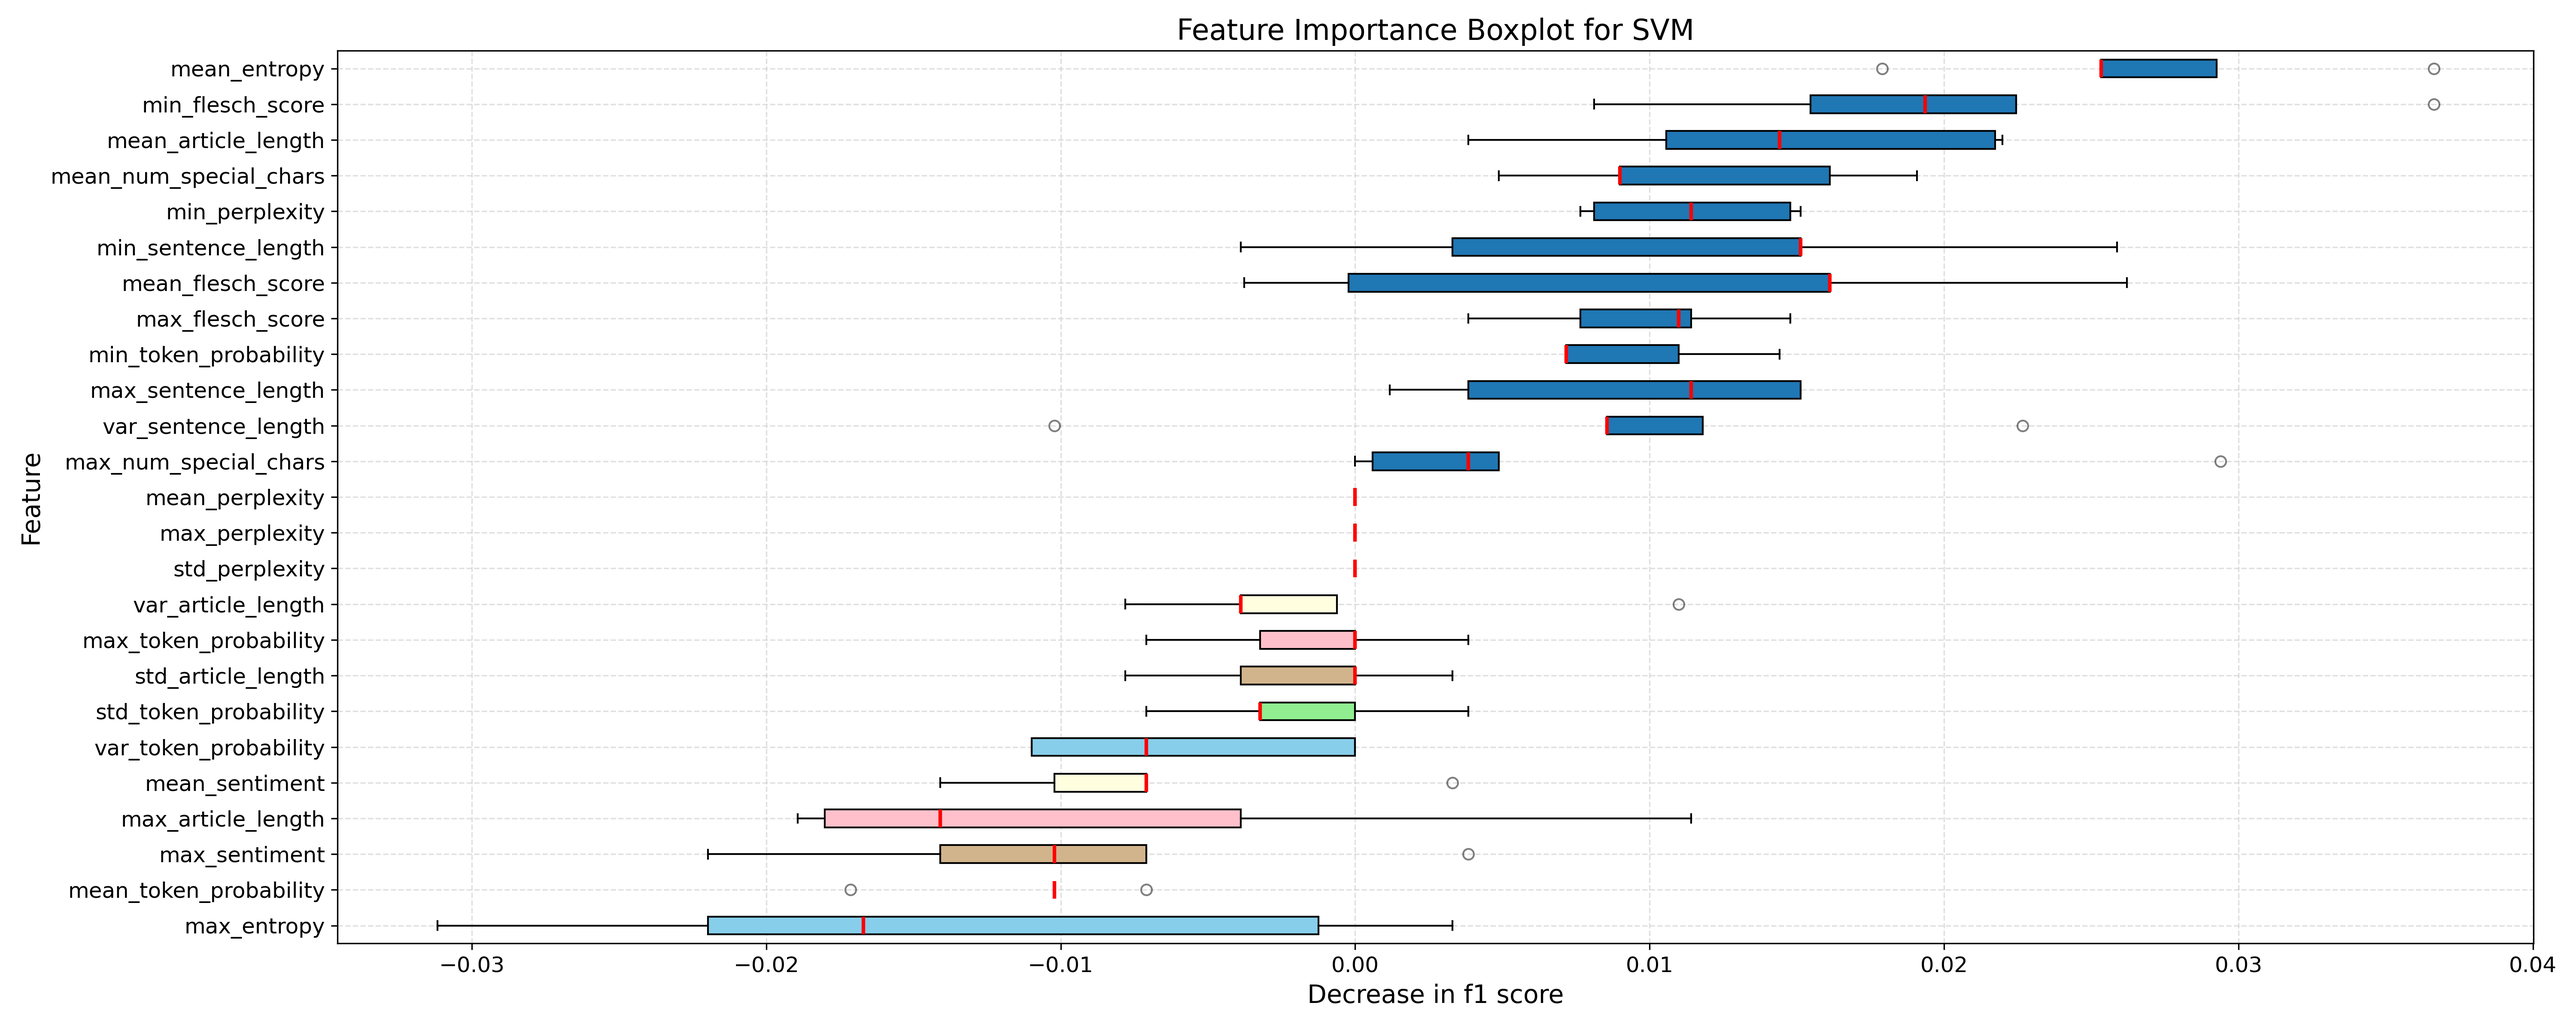
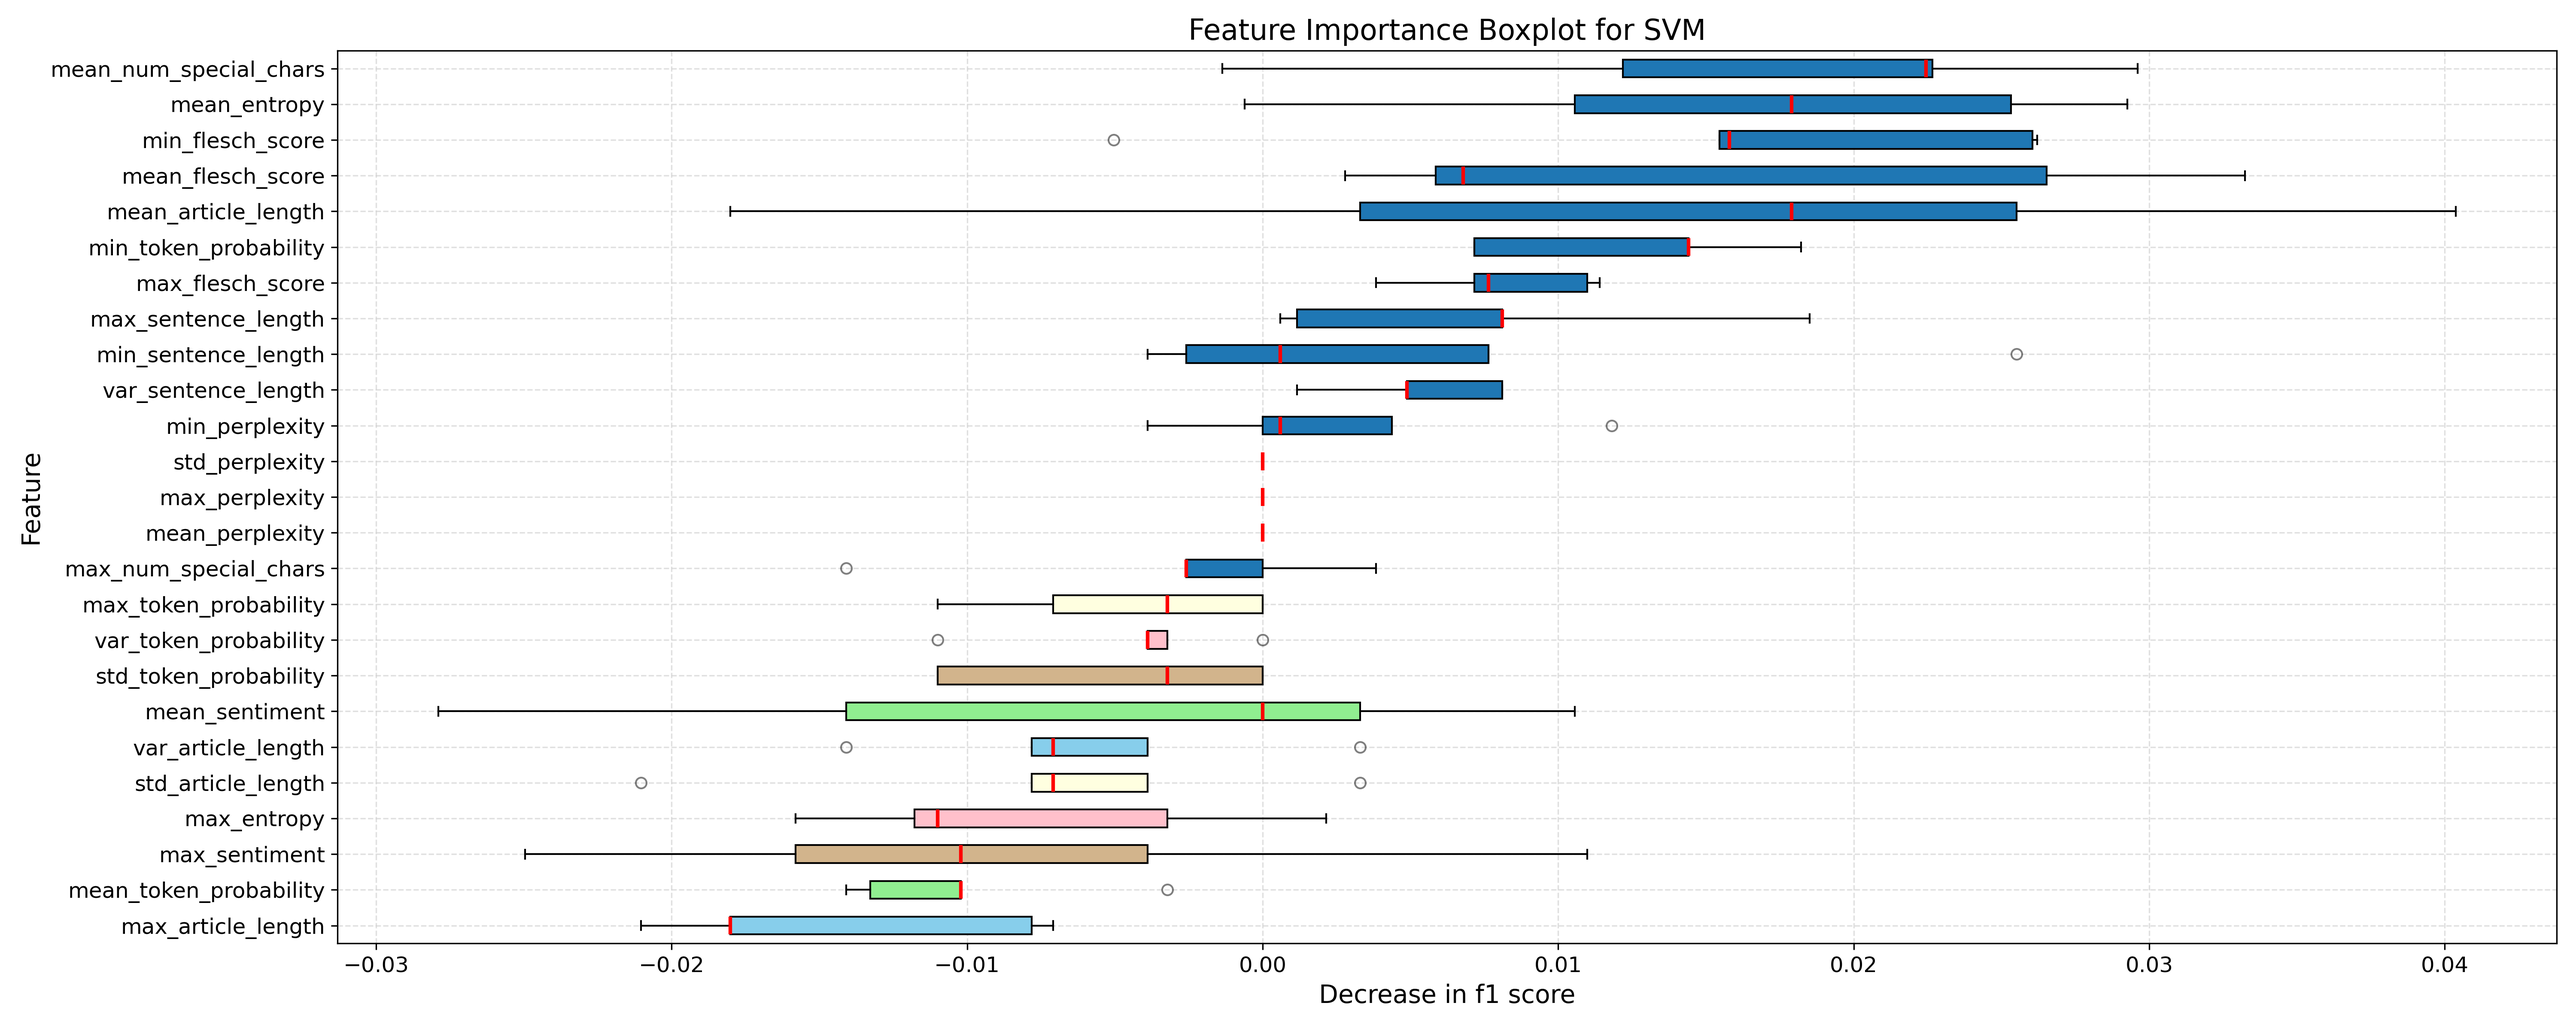
init

diff --git a/src/seekers/anomaly_seeker/anomaly_seeker.py b/src/seekers/anomaly_seeker/anomaly_seeker.py
@@ -8,13 +8,14 @@ import pandas as pd
 import matplotlib.pyplot as plt
 from textblob import TextBlob
 from tqdm import tqdm
+from sklearn.decomposition import PCA
 from sklearn.preprocessing import StandardScaler, MinMaxScaler
 from sklearn.ensemble import RandomForestClassifier
-from sklearn.svm import SVC
+from sklearn.svm import SVC, OneClassSVM
 from sklearn.neighbors import NearestNeighbors
 from sklearn.feature_selection import SelectKBest, chi2, f_classif, mutual_info_classif
-from sklearn.model_selection import train_test_split, GridSearchCV, RandomizedSearchCV, StratifiedKFold
-from sklearn.metrics import f1_score, precision_score, recall_score, confusion_matrix
+from sklearn.model_selection import train_test_split, GridSearchCV, RandomizedSearchCV, StratifiedKFold, ParameterGrid
+from sklearn.metrics import f1_score, precision_score, recall_score, confusion_matrix, roc_curve, auc
 from sklearn.inspection import permutation_importance
 
 from .features import *
@@ -109,6 +110,30 @@ class Anomaly_Seeker(Seeker):
             clf = RandomForestClassifier(random_state=self.random_state)
         elif model_name == 'SVM':
             clf = SVC(random_state=self.random_state)
+        elif model_name == 'OCSVM':
+            # Split validation set from training set
+            X_train, X_validation, y_train, y_validation = train_test_split(X_train, y_train, test_size=0.2, random_state=self.random_state, stratify=y_train)
+            # Only use the normal data for training
+            indices = np.where(y_train == 1)[0] 
+            X_train = X_train[indices]
+            
+            best_params = self.manual_gridsearch(X_train, X_validation, y_validation, param_dist)
+            clf = OneClassSVM(**best_params)
+            clf.fit(X_train)
+            y_pred = clf.predict(X_test)
+
+            # Plot ROC curve and find optimal threshold
+            optimal_threshold = self.plot_roc_curve(clf, X_test, y_test, model_name)
+            print(f"{optimal_threshold=}")
+            # Apply the optimal threshold to the decision function scores
+            decision_scores = clf.decision_function(X_test)
+            decision_scores = clf.decision_function(X_test)
+            y_pred_optimal = np.where(decision_scores < optimal_threshold, -1, 1) # -1 for anomalies, 1 for normal data
+            print(np.unique(y_pred_optimal, return_counts=True))
+            # Print metrics
+            self.print_metrics(y_test, y_pred_optimal)
+
+            return clf, optimal_threshold
 
         # Set up Stratified Cross Validation
         stratified_cv = StratifiedKFold(n_splits=5, shuffle=True, random_state=self.random_state)
@@ -123,10 +148,25 @@ class Anomaly_Seeker(Seeker):
         return clf
     
 
+    def manual_gridsearch(self, X_train, X_validation, y_validation, param_dist):
+        best_params = None
+        best_score = -np.inf
+        for params in ParameterGrid(param_dist):
+            clf = OneClassSVM(**params)
+            clf.fit(X_train)
+            y_pred = clf.predict(X_validation)
+            score = f1_score(y_validation, y_pred, pos_label=-1)
+            if score > best_score:
+                best_score = score
+                best_params = params
+        print("Best parameters found: ", best_params)
+        return best_params
+    
+
     def print_metrics(self, y_test, y_pred):
-        print(f"Precision: {precision_score(y_test, y_pred)}")
-        print(f"Recall: {recall_score(y_test, y_pred)}")
-        print(f"F1-score: {f1_score(y_test, y_pred)}")
+        print(f"Precision: {precision_score(y_test, y_pred, pos_label=-1)}")
+        print(f"Recall: {recall_score(y_test, y_pred, pos_label=-1)}")
+        print(f"F1-score: {f1_score(y_test, y_pred, pos_label=-1)}")
         print(f"Accuracy: {np.mean(y_test == y_pred)}")
 
 
@@ -147,32 +187,34 @@ class Anomaly_Seeker(Seeker):
         feature_set, labels = self.load_or_extract_features('resources/feature_set_newsfeeds.csv', 'resources/feeds/kaggle')
 
         # Initial Training
-        clf, X_test, y_test, column_names = self.perform_training(feature_set, labels, modelName)
+        clf, best_threshold, X_test, y_test, column_names = self.perform_training(feature_set, labels, modelName)
 
         self.calculate_and_plot_permutation_importance(clf, X_test, y_test, column_names, modelName)
 
         # Save the final model
         joblib.dump(clf, f"resources/models/anomaly_detector_{modelName}.joblib")
+        joblib.dump(best_threshold, f"resources/models/best_threshold_{modelName}.joblib")
 
 
     def perform_training(self, feature_set, labels, modelName):
         X_train, X_test, y_train, y_test, column_names = self.prepare_data(feature_set, labels)
-        clf = self.train_and_evaluate(X_train, y_train, X_test, y_test, modelName, self.get_param_dist(modelName))
-        return clf, X_test, y_test, column_names
+        clf, best_threshold = self.train_and_evaluate(X_train, y_train, X_test, y_test, modelName, self.get_param_dist(modelName))
+        return clf, best_threshold, X_test, y_test, column_names
     
 
     def prepare_data(self, feature_set, labels):
         feature_set = feature_set.fillna(0.0)
 
         X_train, X_test, y_train, y_test = train_test_split(feature_set, labels, test_size=0.2, random_state=self.random_state, stratify=labels)
+        X_train, X_test, y_train, y_test = np.array(X_train), np.array(X_test), np.array(y_train), np.array(y_test)
 
         # Using StandardScaler
         scaler = StandardScaler()
         X_train = scaler.fit_transform(X_train)
         X_test = scaler.transform(X_test)
 
-        # Selecting features using ANOVA F-value
-        selector = SelectKBest(f_classif, k=25)
+        # Selecting top features using anova f-test
+        selector = SelectKBest(f_classif, k=3)
         X_train = selector.fit_transform(X_train, y_train)
         X_test = selector.transform(X_test)
 
@@ -234,6 +276,30 @@ class Anomaly_Seeker(Seeker):
         plt.tight_layout()
         plt.savefig(f"permutation_importance_boxplot_{modelName}.png", dpi=300)
 
+    
+    def plot_roc_curve(self, clf, X_test, y_test, modelName):
+        decision_scores = clf.decision_function(X_test)
+        #y_test = np.where(y_test == 1, 0, 1) # Convert labels to 0 and 1 as required by roc_curve
+        fpr, tpr, thresholds = roc_curve(y_test, decision_scores)
+        roc_auc = auc(fpr, tpr)
+        plt.figure(figsize=(8, 6))
+        plt.plot(fpr, tpr, color='darkorange', lw=2, label='ROC curve (area = %0.2f)' % roc_auc)
+        plt.plot([0, 1], [0, 1], color='navy', lw=2, linestyle='--')
+        plt.xlim([0.0, 1.0])
+        plt.ylim([0.0, 1.05])
+        plt.grid(True, linestyle='--', which='major', color='lightgrey', alpha=0.7)
+        plt.xlabel('False Positive Rate')
+        plt.ylabel('True Positive Rate')
+        plt.title('Receiver Operating Characteristic')
+        plt.legend(loc="lower right")
+        plt.savefig(f'roc_curve_{modelName}.png', dpi=300)
+
+        # Find the optimal threshold
+        optimal_idx = np.argmax(tpr - fpr)
+        optimal_threshold = thresholds[optimal_idx]
+        
+        return optimal_threshold
+
 
     def get_param_dist(self, modelName):
         if modelName == 'RFC':
@@ -253,6 +319,15 @@ class Anomaly_Seeker(Seeker):
                 'kernel': ['rbf', 'poly', 'sigmoid'],  # Kernel type
                 'degree': [2, 3, 4]  # Degree for 'poly' kernel. Consider lower values to avoid overfitting.
             }    
+        
+        elif modelName == 'OCSVM':
+            return {
+                'nu': [0.01, 0.05, 0.1], 
+                'gamma': ['scale', 'auto', 0.1, 0.01]
+            }
+        
+        else:
+            raise ValueError(f"Model name {modelName} not recognized.")
 
     def detect_secret(self, newsfeed: list[str]) -> bool:
         # Extract features from the newsfeed
@@ -266,7 +341,13 @@ class Anomaly_Seeker(Seeker):
 
         # Load the pretrained classifier and predict if a secret is present
         clf = joblib.load('resources/models/anomaly_detector_SVM.joblib')
-        prediction = clf.predict(features_selected)
+        threshold = joblib.load('resources/models/best_threshold_SVM.joblib')
+        
+        # Use the decision function to get the score
+        decision_score = clf.decision_function(features_selected)
+
+        # Apply the threshold to the decision score to determine the prediction
+        prediction = (decision_score < threshold).astype(int) # Returns 1 for anomalies and 0 for normal data
         
         # Return True if the model predicts the presence of a secret, False otherwise
-        return bool(prediction[0] == -1)
+        return bool(prediction)

diff --git a/main.py b/main.py
@@ -2,5 +2,5 @@ from src.seekers.anomaly_seeker.anomaly_seeker import Anomaly_Seeker
 
 if __name__ == "__main__":
      seeker = Anomaly_Seeker(disable_tqdm=True)
-     seeker.train_model(modelName='SVM')
-    # seeker.detection_interface()
+     #seeker.train_model(modelName='OCSVM')
+     seeker.detection_interface()
